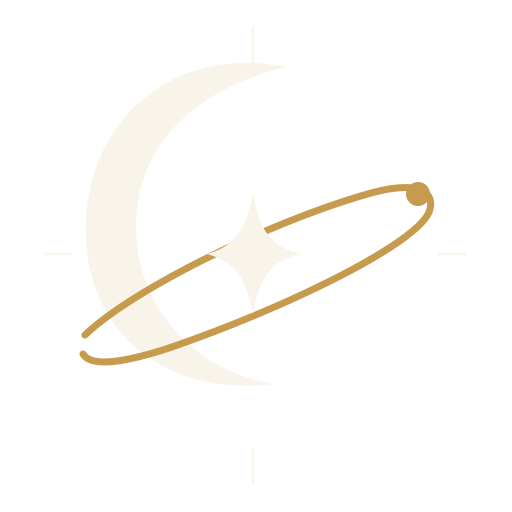
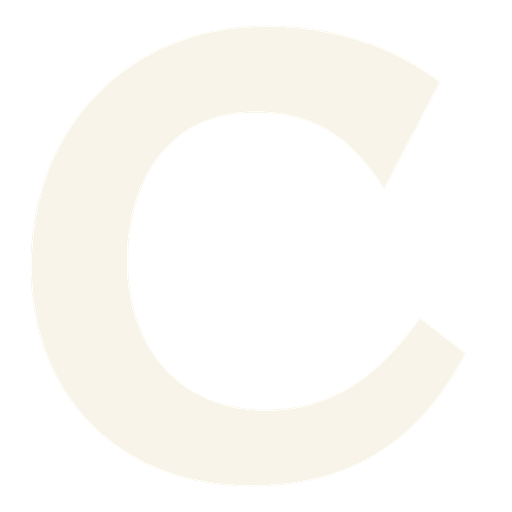
Introduce the cut C magazine masthead and platform launcher artwork

Changed region(s): [[0.1562, 0.4688, 0.7812, 0.7188], [0.5, 0.3438, 0.8438, 0.4688], [0.1562, 0.4688, 0.4375, 0.6562]]

diff --git a/PROJECT_CONTEXT.md b/PROJECT_CONTEXT.md
@@ -32,11 +32,11 @@ Differentiation is in editorial curation, source-aware reading, and dependable o
 6. Keep scope honest: no custom backend unless a real requirement appears.
 7. Accessibility and reduced motion are product requirements, not polish-only tasks.
 
-## Brand — v2 (approved redesign direction)
+## Brand — magazine edition (current)
 - Original visual references: `design/references/reference-brand-system.png` and `reference-mobile-case-study.png`.
-- Figma source of truth: `https://www.figma.com/design/TSztxI5A8AxSFqOpHftL4N` (all v2 pages first; v1 archived).
-- Mark: ivory/forest crescent with one brass orbital arc, central four-point sighting star, brass observation point and quiet registration ticks.
-- Wordmark: COSMOLOG in Playfair Display Regular; tagline in Playfair Display Italic.
+- Figma source of truth: `https://www.figma.com/design/TSztxI5A8AxSFqOpHftL4N` (magazine pages supersede v2).
+- Mark: a typographic C with diagonally cut terminals.
+- Wordmark: outlined COSMOLOG masthead in Playfair Display Bold; tagline in Playfair Display Italic.
 - Interface type: Inter.
 - Palette: Ivory #F8F4EA, Forest #184235, Terracotta #C1654A, Sage #A8B89A, Brass #C79B4D, Ink #2C2A27.
 - Production app uses real attributed remote astronomy photos; Figma mockup's generated editorial imagery is illustrative only.

diff --git a/assets/brand/README.md b/assets/brand/README.md
@@ -1,13 +1,3 @@
-# COSMOLOG v2 brand assets
-Source: https://www.figma.com/design/TSztxI5A8AxSFqOpHftL4N?node-id=13-135
+# COSMOLOG magazine identity
 
-The mark was vector-redrawn to follow the approved editorial brand reference:
-forest/ivory crescent, brass orbital stroke, observation point and central sighting star.
-
-Formats: SVG mark, transparent PNG mark, SVG/PNG 1024 launcher, monochrome SVG, SVG lockup.
-
-Wordmark uses Playfair Display and tagline Playfair Display Italic. The SVG keeps editable text; correct display depends on an available compatible font. Do not distribute font files; load open-licensed fonts through a supported package during app implementation.
-
-Test at 24px and 48px, with real Android adaptive-icon safe zone before submission.
-
-The v2 ivory observation mark is exported as `cosmolog-mark-ivory.svg` for the dark launch and authentication mastheads. `cosmolog-mark-ivory.png` is the transparent raster of the same mark for the native splash.
+The open C has diagonally cut terminals. The vector master is cosmolog-mark.svg. The two clipped ivory pieces use its exact contour for the opening animation. The outlined masthead combines the custom C with Playfair Display Bold lettering. Android foreground and monochrome layers include launcher-safe padding. The 1024-pixel launcher export is opaque.

diff --git a/docs/DECISIONS.md b/docs/DECISIONS.md
@@ -73,3 +73,6 @@ Use the archive SQLite writer for versioned study records, aliases, account book
 ## ADR-014 — Platform materials for navigation and sky controls
 
 Use Expo SDK 58's expo-glass-effect for the floating tab bar and manual sky toolbar on supported Apple devices. Check native availability and Reduce Transparency before rendering glass. Use an elevated opaque surface elsewhere. Keep Expo Router's JavaScript tabs for Feather icons and existing navigation semantics. Opaque reading surfaces preserve legibility and keep material rendering out of repeated list items.
+
+## ADR-015 — Magazine cover and launch identity
+Use the approved magazine C throughout the launcher, masthead and five-second cold-launch sequence. Keep the existing Reanimated and Expo Image dependencies. Source editions are projections of the local feed. The new presentation requires no database migration.

diff --git a/docs/PROGRESS.md b/docs/PROGRESS.md
@@ -327,3 +327,6 @@ The iPhone 17 simulator on iOS 27.2 displayed the glass bar in Expo Go. XCTest s
 Updated screenshots show the core journey, iOS tabs, manual sky toolbar and offline provenance. The local Android QA APK is `dist/cosmolog-editorial-qa.apk`. The H.264/AAC narrated cut is `dist/cosmolog-editorial-demo.mp4` and decoded successfully at 149.37 seconds.
 
 The iOS navigation XCTest also passed with Accessibility Large text and Increase Contrast enabled. The simulator settings were restored after the check.
+
+## Magazine identity
+Replaced the launcher and editorial lockup with a cut C and outlined Playfair lettering. Exported transparent foregrounds, monochrome artwork, density-specific launch icons and a matching native splash.
